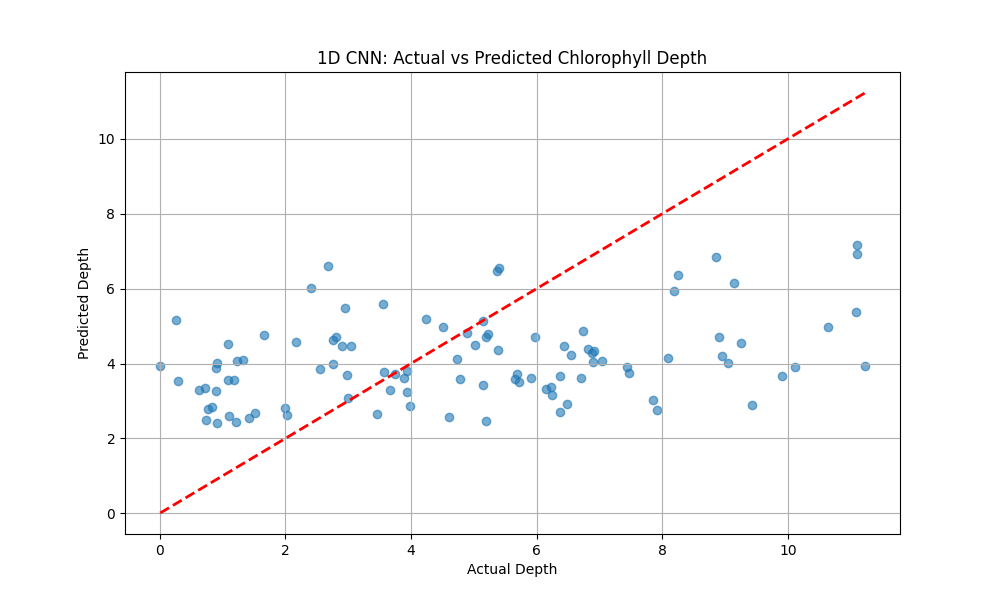
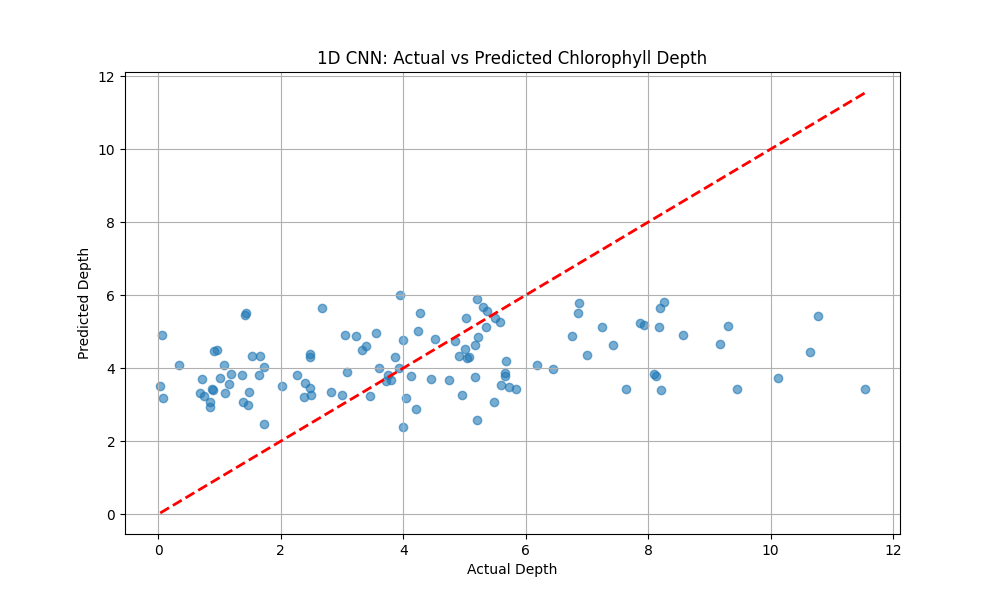
Back in the box go the other models

diff --git a/Other_Code_Files/Descision_Tree_Code.py b/Other_Code_Files/Descision_Tree_Code.py
@@ -3,8 +3,8 @@ import pandas as pd
 import numpy as np
 from scipy import stats
 import matplotlib.pyplot as plt
+from sklearn.tree import DecisionTreeRegressor
 from sklearn.model_selection import train_test_split
-from sklearn.linear_model import LinearRegression
 from sklearn.metrics import mean_squared_error
 
 # Load data
@@ -15,7 +15,7 @@ except FileNotFoundError:
     exit()
 
 # Feature and target columns
-feature_cols = ['shallow_depth_s', 'deep_depth_s', 'Deep_depth_t']
+feature_cols = ['shallow_depth_s', 'deep_depth_s']
 target_col = 'chlorophyll_depth'
 
 def remove_outliers(df):
@@ -98,7 +98,6 @@ def coerce_and_clean_numeric(df, cols, target_col):
     return df2_kept
 
 # Apply cleaning and outlier removal
-print("--- Data Preprocessing ---")
 data_numeric = coerce_and_clean_numeric(data, feature_cols, target_col)
 data_cleaned = remove_outliers(data_numeric)
 
@@ -106,35 +105,31 @@ print("Original DataFrame shape:", data.shape)
 print("DataFrame shape after coercion+outlier removal:", data_cleaned.shape)
 
 # Prepare Feature and Target sets
-X = data_cleaned[feature_cols].values
-y = data_cleaned[target_col].values
+X = data_cleaned[feature_cols]
+y = data_cleaned[target_col]
 
 # Split data into training and test sets
 X_train, X_test, y_train, y_test = train_test_split(X, y, test_size=0.2, random_state=42)
 
-print("\n--- Model Training ---")
-# Initialize the Linear Regression model
-model = LinearRegression()
+# Initialize and train Decision Tree Regressor
+# You can tune hyperparameters like max_depth, min_samples_split, etc.
+dt_regressor = DecisionTreeRegressor(random_state=42)
+dt_regressor.fit(X_train, y_train)
 
-# Train the model
-model.fit(X_train, y_train)
-
-print("\n--- Model Evaluation ---")
 # Predict on test set
-y_pred = model.predict(X_test)
+y_pred = dt_regressor.predict(X_test)
 
-# Calculate metrics
+# Evaluate the model
 mse = mean_squared_error(y_test, y_pred)
 rmse = np.sqrt(mse)
+print(f"Decision Tree Mean Squared Error: {mse}")
+print(f"Decision Tree Root Mean Squared Error: {rmse}")
 
-print(f"Linear Regression Mean Squared Error: {mse}")
-print(f"Linear Regression Root Mean Squared Error: {rmse}")
-
-# Coefficients
-print("\n--- Model Coefficients ---")
-for i, col in enumerate(feature_cols):
-    print(f"{col}: {model.coef_[i]}")
-print(f"Intercept: {model.intercept_}")
+# Optional: Feature Importance
+importances = dt_regressor.feature_importances_
+print("\nFeature Importances:")
+for col, imp in zip(feature_cols, importances):
+    print(f"{col}: {imp}")
 
 # Plotting Actual vs Predicted
 plt.figure(figsize=(10, 6))
@@ -142,7 +137,7 @@ plt.scatter(y_test, y_pred, color='blue', alpha=0.5, label='Predicted vs Actual'
 plt.plot([y_test.min(), y_test.max()], [y_test.min(), y_test.max()], 'k--', lw=2, label='Perfect Prediction')
 plt.xlabel('Actual Chlorophyll Depth')
 plt.ylabel('Predicted Chlorophyll Depth')
-plt.title('Linear Regression: Actual vs Predicted Chlorophyll Depth')
+plt.title('Decision Tree: Actual vs Predicted Chlorophyll Depth')
 plt.legend()
 plt.grid(True)
 plt.show()

diff --git a/Other_Code_Files/Regression_Code.py b/Other_Code_Files/Regression_Code.py
@@ -3,8 +3,8 @@ import pandas as pd
 import numpy as np
 from scipy import stats
 import matplotlib.pyplot as plt
-from sklearn.tree import DecisionTreeRegressor
 from sklearn.model_selection import train_test_split
+from sklearn.linear_model import LinearRegression
 from sklearn.metrics import mean_squared_error
 
 # Load data
@@ -15,7 +15,7 @@ except FileNotFoundError:
     exit()
 
 # Feature and target columns
-feature_cols = ['shallow_depth_s', 'deep_depth_s', 'Deep_depth_t']
+feature_cols = ['shallow_depth_s', 'deep_depth_s']
 target_col = 'chlorophyll_depth'
 
 def remove_outliers(df):
@@ -98,6 +98,7 @@ def coerce_and_clean_numeric(df, cols, target_col):
     return df2_kept
 
 # Apply cleaning and outlier removal
+print("--- Data Preprocessing ---")
 data_numeric = coerce_and_clean_numeric(data, feature_cols, target_col)
 data_cleaned = remove_outliers(data_numeric)
 
@@ -105,31 +106,35 @@ print("Original DataFrame shape:", data.shape)
 print("DataFrame shape after coercion+outlier removal:", data_cleaned.shape)
 
 # Prepare Feature and Target sets
-X = data_cleaned[feature_cols]
-y = data_cleaned[target_col]
+X = data_cleaned[feature_cols].values
+y = data_cleaned[target_col].values
 
 # Split data into training and test sets
 X_train, X_test, y_train, y_test = train_test_split(X, y, test_size=0.2, random_state=42)
 
-# Initialize and train Decision Tree Regressor
-# You can tune hyperparameters like max_depth, min_samples_split, etc.
-dt_regressor = DecisionTreeRegressor(random_state=42)
-dt_regressor.fit(X_train, y_train)
+print("\n--- Model Training ---")
+# Initialize the Linear Regression model
+model = LinearRegression()
 
+# Train the model
+model.fit(X_train, y_train)
+
+print("\n--- Model Evaluation ---")
 # Predict on test set
-y_pred = dt_regressor.predict(X_test)
+y_pred = model.predict(X_test)
 
-# Evaluate the model
+# Calculate metrics
 mse = mean_squared_error(y_test, y_pred)
 rmse = np.sqrt(mse)
-print(f"Decision Tree Mean Squared Error: {mse}")
-print(f"Decision Tree Root Mean Squared Error: {rmse}")
 
-# Optional: Feature Importance
-importances = dt_regressor.feature_importances_
-print("\nFeature Importances:")
-for col, imp in zip(feature_cols, importances):
-    print(f"{col}: {imp}")
+print(f"Linear Regression Mean Squared Error: {mse}")
+print(f"Linear Regression Root Mean Squared Error: {rmse}")
+
+# Coefficients
+print("\n--- Model Coefficients ---")
+for i, col in enumerate(feature_cols):
+    print(f"{col}: {model.coef_[i]}")
+print(f"Intercept: {model.intercept_}")
 
 # Plotting Actual vs Predicted
 plt.figure(figsize=(10, 6))
@@ -137,7 +142,7 @@ plt.scatter(y_test, y_pred, color='blue', alpha=0.5, label='Predicted vs Actual'
 plt.plot([y_test.min(), y_test.max()], [y_test.min(), y_test.max()], 'k--', lw=2, label='Perfect Prediction')
 plt.xlabel('Actual Chlorophyll Depth')
 plt.ylabel('Predicted Chlorophyll Depth')
-plt.title('Decision Tree: Actual vs Predicted Chlorophyll Depth')
+plt.title('Linear Regression: Actual vs Predicted Chlorophyll Depth')
 plt.legend()
 plt.grid(True)
 plt.show()

diff --git a/Other_Code_Files/Standard_RF.py b/Other_Code_Files/Standard_RF.py
@@ -23,7 +23,7 @@ except FileNotFoundError:
     exit()
 
 # Standardized Feature and target columns
-feature_cols = ['shallow_depth_s', 'deep_depth_s', 'Deep_depth_t']
+feature_cols = ['shallow_depth_s', 'deep_depth_s']
 target_col = 'chlorophyll_depth'
 
 def remove_outliers(df):
@@ -249,7 +249,8 @@ if __name__ == "__main__":
 
     print("\n--- Model Training ---")
     # Standardized parameters: 100 estimators (epochs equivalent)
-    rf_model = RandomForestRegressor(n_estimators=100, random_state=42)
+    # Note: max_features=0.8 simulates a 0.2 dropout rate (dropping 20% of features at each split)
+    rf_model = RandomForestRegressor(n_estimators=100, max_features=0.8, random_state=42, max_depth=3)
     rf_model.fit(X_train, y_train)
 
     print("\n--- Model Evaluation ---")

diff --git a/Other_Code_Files/DNN_Code.py b/Other_Code_Files/DNN_Code.py
@@ -19,7 +19,7 @@ from tensorflow.keras.layers import Dense, Dropout, BatchNormalization, Gaussian
 data = pd.read_csv('Raw data chlorocline.csv', encoding='latin-1') # Try 'latin-1' encoding
 
 # Feature and target columns (ensure these match your CSV headers)
-feature_cols = ['shallow_depth_s', 'deep_depth_s', 'Deep_depth_t']
+feature_cols = ['shallow_depth_s', 'deep_depth_s',]
 target_col = 'chlorophyll_depth'
 
 

diff --git a/Other_Code_Files/1D-CCN_Code.py b/Other_Code_Files/1D-CCN_Code.py
@@ -14,7 +14,7 @@ from sklearn.metrics import mean_squared_error
 data = pd.read_csv('Raw data chlorocline.csv', encoding='latin-1') # Try 'latin-1' encoding
 
 # Feature and target columns (ensure these match your CSV headers)
-feature_cols = ['shallow_depth_s', 'deep_depth_s', 'Deep_depth_t']
+feature_cols = ['shallow_depth_s', 'deep_depth_s']
 target_col = 'chlorophyll_depth'
 
 

diff --git a/Other_Code_Files/Mixed_Linear_Code.py b/Other_Code_Files/Mixed_Linear_Code.py
@@ -19,7 +19,7 @@ def main():
     data = pd.read_csv(filename, encoding='latin-1')
 
     # Feature and target columns
-    feature_cols = ['shallow_depth_s', 'deep_depth_s', 'Deep_depth_t']
+    feature_cols = ['shallow_depth_s', 'deep_depth_s']
     target_col = 'chlorophyll_depth'
     # We use 'Site' for the mixed model grouping variable
     group_col = 'Site'

diff --git a/Other_Code_Files/Support_Vector_Code.py b/Other_Code_Files/Support_Vector_Code.py
@@ -21,7 +21,7 @@ def main():
     data = pd.read_csv(filename, encoding='latin-1')
 
     # Feature and target columns
-    feature_cols = ['shallow_depth_s', 'deep_depth_s', 'Deep_depth_t']
+    feature_cols = ['shallow_depth_s', 'deep_depth_s']
     target_col = 'chlorophyll_depth'
 
     # --- Preprocessing Functions ---

diff --git a/Other_Code_Files/Mixed_Random_Forest_Code.py b/Other_Code_Files/Mixed_Random_Forest_Code.py
@@ -24,7 +24,7 @@ def main():
         return
 
     # Feature and target columns
-    feature_cols = ['shallow_depth_s', 'deep_depth_s', 'Deep_depth_t']
+    feature_cols = ['shallow_depth_s', 'deep_depth_s']
     target_col = 'chlorophyll_depth'
     group_col = 'Site'
 

diff --git a/Other_Code_Files/Gradient_Tree_Code.py b/Other_Code_Files/Gradient_Tree_Code.py
@@ -15,7 +15,7 @@ except FileNotFoundError:
     exit(1)
 
 # Feature and target columns
-feature_cols = ['shallow_depth_s', 'deep_depth_s', 'Deep_depth_t']
+feature_cols = ['shallow_depth_s', 'deep_depth_s']
 target_col = 'chlorophyll_depth'
 
 def remove_outliers(df):

diff --git a/Other_Code_Files/ArtificialNN_Code.py b/Other_Code_Files/ArtificialNN_Code.py
@@ -17,7 +17,7 @@ except FileNotFoundError:
     exit()
 
 # Feature and target columns
-feature_cols = ['shallow_depth_s', 'deep_depth_s', 'Deep_depth_t']
+feature_cols = ['shallow_depth_s', 'deep_depth_s']
 target_col = 'chlorophyll_depth'
 
 def remove_outliers(df):
